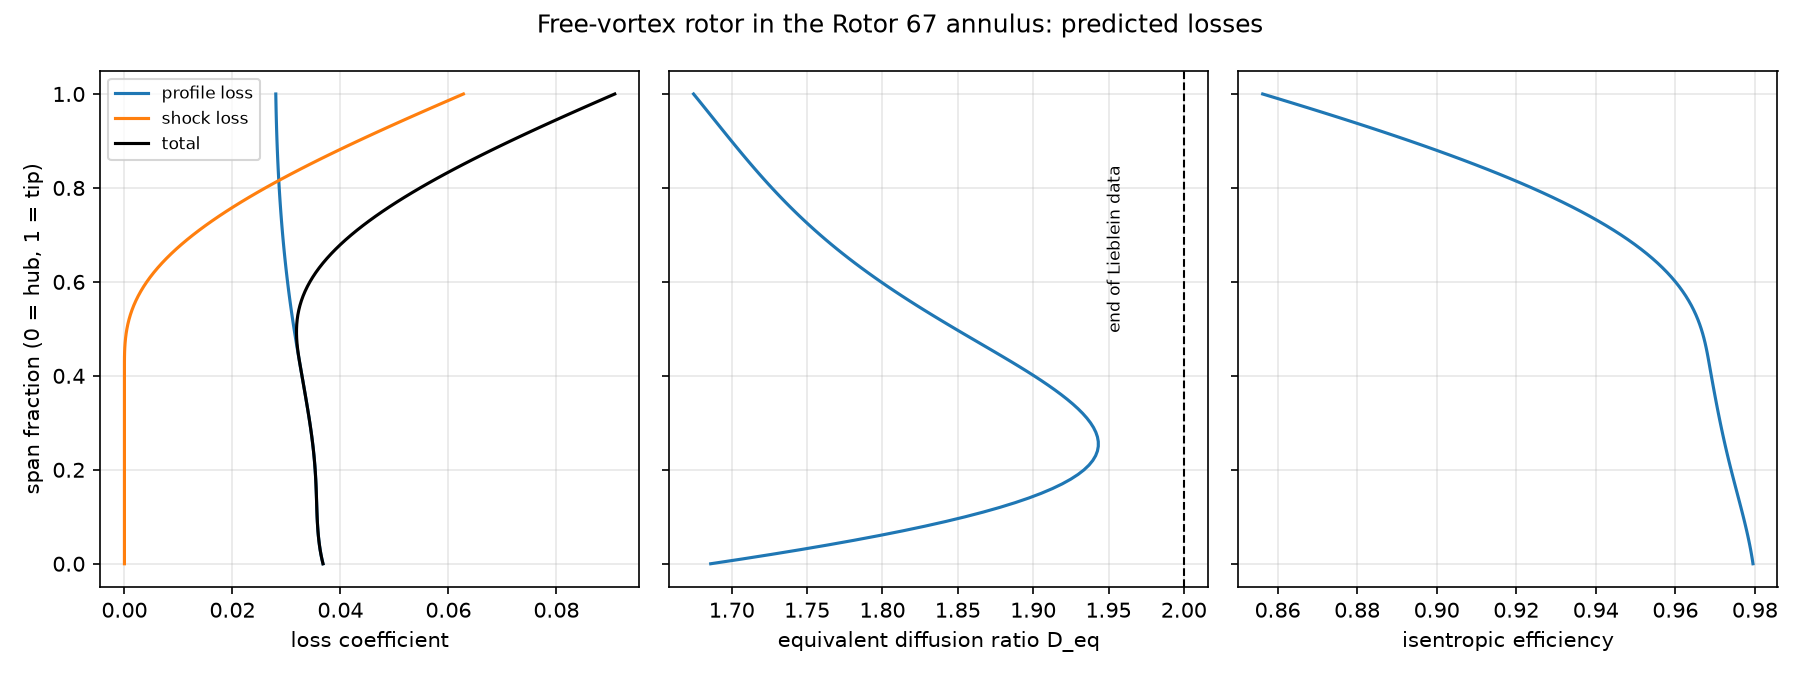
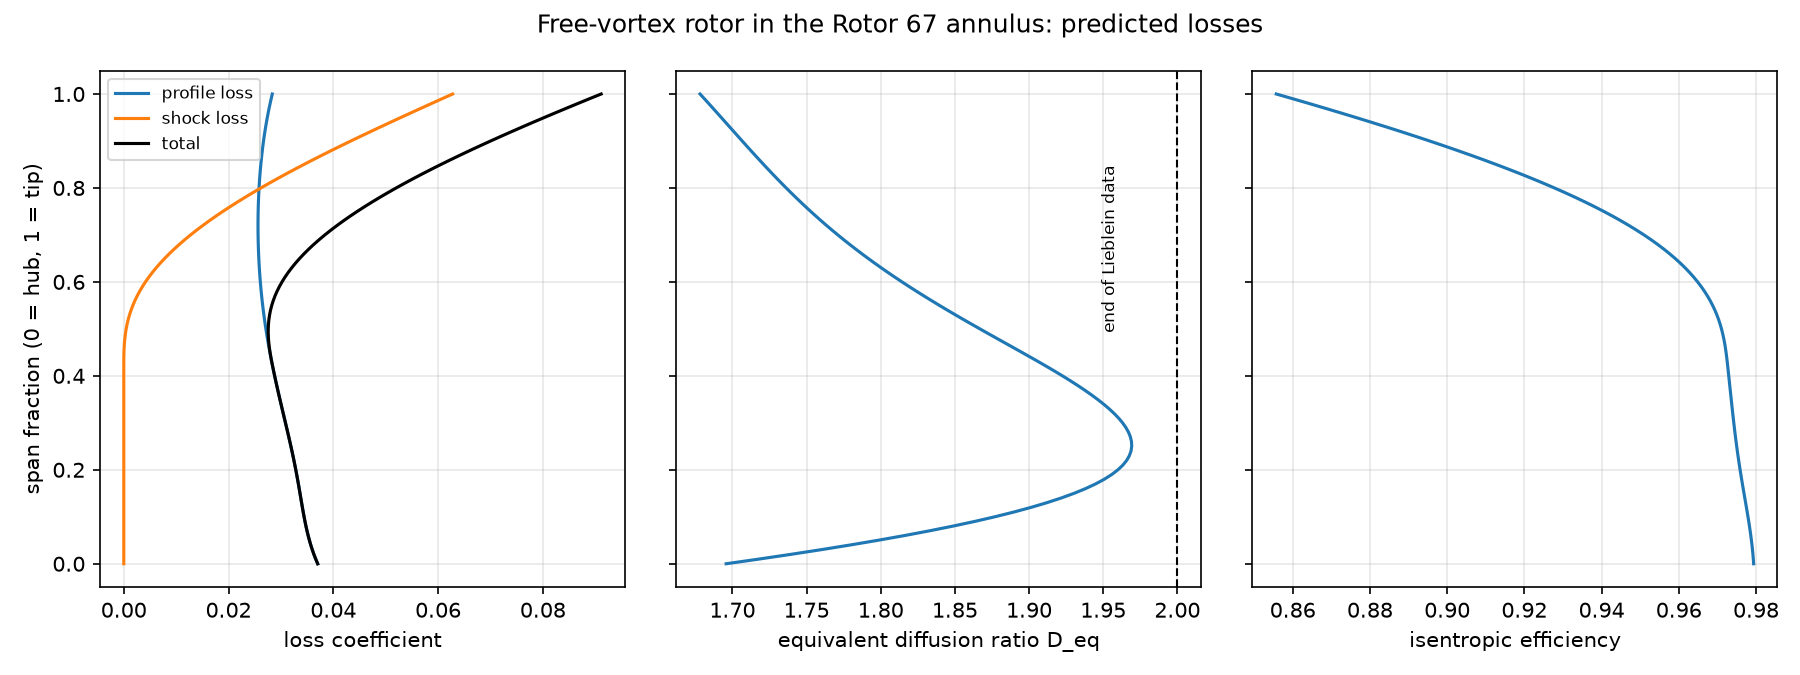
Add blade sections; Rotor 67 solidity from constant chord (aspect ratio check)

diff --git a/fan/blade_sections.py b/fan/blade_sections.py
@@ -1,0 +1,112 @@
+"""
+Blade sections: circular-arc camber line with a lens-shaped thickness.
+
+Each section is built in its own chord frame and then rotated by the
+stagger angle:
+
+  camber line   circular arc, direction angle phi from -theta/2 (leading
+                edge) to +theta/2 (trailing edge), radius R = c / (2 sin(theta/2))
+                    x = c/2 + R sin(phi),   y = R (cos(theta/2) - cos(phi))
+  thickness     t(s) = 4 t_max s (1 - s), s = x / c, laid off normal to
+                the camber line on both sides. For a thin section this is
+                the double-circular-arc (DCA) profile, a classic transonic
+                fan section. The edges are sharp; edge radii come later.
+
+Coordinates: X axial, Y tangential (direction of blade motion), metres,
+origin at mid-chord. Direction angles from axial, so the camber line
+leaves the leading edge at kappa1 = stagger - theta/2 and the trailing
+edge at kappa2 = stagger + theta/2, as in blade_angles.py.
+"""
+
+import math
+
+import numpy as np
+
+
+def chord_from_solidity(solidity, radius, n_blades: int):
+    """Chord [m] from solidity sigma = c / pitch, pitch = 2 pi r / Z."""
+    return solidity * 2.0 * np.pi * radius / n_blades
+
+
+def circular_arc_section(camber_deg: float, stagger_deg: float, chord: float,
+                         thickness_ratio: float, n_points: int = 101) -> dict:
+    """Camber line, upper and lower surface of one section.
+
+    Returns {"camber": (X, Y), "upper": (X, Y), "lower": (X, Y)}.
+    """
+    theta = math.radians(camber_deg)
+    gamma = math.radians(stagger_deg)
+
+    if abs(theta) < 1e-9:                       # flat plate
+        phi = np.zeros(n_points)
+        x = np.linspace(0.0, chord, n_points)
+        y = np.zeros(n_points)
+    else:
+        radius = chord / (2.0 * math.sin(0.5 * theta))
+        phi = np.linspace(-0.5 * theta, 0.5 * theta, n_points)
+        x = 0.5 * chord + radius * np.sin(phi)
+        y = radius * (math.cos(0.5 * theta) - np.cos(phi))
+
+    s = np.clip(x / chord, 0.0, 1.0)
+    half = 2.0 * thickness_ratio * chord * s * (1.0 - s)    # half thickness
+    nx, ny = -np.sin(phi), np.cos(phi)                      # unit normal
+
+    def to_blade_frame(xc, yc):
+        xc = xc - 0.5 * chord                                # origin at mid-chord
+        return (xc * math.cos(gamma) - yc * math.sin(gamma),
+                xc * math.sin(gamma) + yc * math.cos(gamma))
+
+    return {
+        "camber": to_blade_frame(x, y),
+        "upper": to_blade_frame(x + half * nx, y + half * ny),
+        "lower": to_blade_frame(x - half * nx, y - half * ny),
+    }
+
+
+if __name__ == "__main__":
+    import matplotlib.pyplot as plt
+
+    from fan.annulus import ROTOR67, Annulus
+    from fan.blade_angles import metal_angles
+    from fan.losses import analyze, rotor67_solidity
+    from fan.radial_equilibrium import design_for_pressure_ratio
+
+    N_BLADES = 22
+    inlet = ROTOR67["annulus_inlet"]
+    exit_ = Annulus(r_tip=0.485 / 2, r_hub=0.232 / 2)
+    rpm, mdot = ROTOR67["rpm"], ROTOR67["mass_flow"]
+    guess = design_for_pressure_ratio(inlet, exit_, rpm, mdot, 1.63, -1, 0.92)
+    c_theta_m = guess.c_theta2[0] * (exit_.r_mean / guess.r2[0]) ** -1
+    sol, *_ = analyze(inlet, exit_, rpm, mdot, c_theta_m, -1)
+
+    sigma = rotor67_solidity(sol.span)
+    _, _, camber, stagger, _ = metal_angles(sol.beta1, sol.beta2, sigma)
+    radius = 0.5 * (sol.r1 + sol.r2)
+    chord = chord_from_solidity(sigma, radius, N_BLADES)
+    t_max = 0.10 + (0.03 - 0.10) * sol.span      # assumed: 10 % at hub, 3 % at tip
+
+    picks = [0, 25, 50, 75, 100]
+    print(f"{'span':>5} {'r [mm]':>7} {'chord [mm]':>11} {'t_max [mm]':>11} "
+          f"{'camber':>7} {'stagger':>8}")
+    fig, axes = plt.subplots(1, len(picks), figsize=(15, 4.5))
+    for ax, i in zip(axes, picks):
+        print(f"{sol.span[i]:5.2f} {radius[i] * 1000:7.1f} {chord[i] * 1000:11.1f} "
+              f"{t_max[i] * chord[i] * 1000:11.2f} {camber[i]:7.1f} {stagger[i]:8.1f}")
+        sec = circular_arc_section(camber[i], stagger[i], chord[i], t_max[i])
+        for key, style in (("upper", "b-"), ("lower", "b-"), ("camber", "k--")):
+            xs, ys = sec[key]
+            ax.plot(xs * 1000, ys * 1000, style, lw=1 if key == "camber" else 1.5)
+        ax.set_title(f"span {sol.span[i]:.2f}\ncamber {camber[i]:.0f}°, "
+                     f"stagger {stagger[i]:.0f}°", fontsize=9)
+        ax.set_aspect("equal")
+        ax.set_xlabel("axial [mm]")
+        ax.grid(True, alpha=0.3)
+    axes[0].set_ylabel("tangential [mm] (blade motion +)")
+
+    span_len = (exit_.r_tip + inlet.r_tip) / 2 - (exit_.r_hub + inlet.r_hub) / 2
+    print(f"\nMean span {span_len * 1000:.0f} mm, span / mean chord = "
+          f"{span_len / chord.mean():.2f} (NASA aspect ratio 1.56, based on root axial chord)")
+    fig.suptitle("Rotor sections (free vortex, circular-arc camber, DCA-like thickness)")
+    fig.tight_layout()
+    fig.savefig("figures/blade_sections.png", dpi=150)
+    print("Saved figures/blade_sections.png")

diff --git a/tests/test_blade_sections.py b/tests/test_blade_sections.py
@@ -1,0 +1,44 @@
+"""Tests for the blade section geometry."""
+
+import math
+
+import numpy as np
+import pytest
+
+from fan.blade_sections import chord_from_solidity, circular_arc_section
+
+
+def test_chord_from_solidity():
+    assert chord_from_solidity(1.29, 0.25, 22) == pytest.approx(1.29 * 2 * math.pi * 0.25 / 22)
+
+
+def test_flat_plate_without_camber():
+    x, y = circular_arc_section(0.0, -30.0, 0.1, 0.05)["camber"]
+    slope = np.degrees(np.arctan2(np.diff(y), np.diff(x)))
+    assert slope == pytest.approx(-30.0)
+
+
+@pytest.mark.parametrize("camber, stagger", [(20.0, -40.0), (60.0, -10.0), (5.0, -65.0)])
+def test_camber_line_matches_metal_angles(camber, stagger):
+    x, y = circular_arc_section(camber, stagger, 0.1, 0.05, n_points=2001)["camber"]
+    k_le = math.degrees(math.atan2(y[1] - y[0], x[1] - x[0]))
+    k_te = math.degrees(math.atan2(y[-1] - y[-2], x[-1] - x[-2]))
+    assert k_le == pytest.approx(stagger - camber / 2, abs=0.05)
+    assert k_te == pytest.approx(stagger + camber / 2, abs=0.05)
+
+
+def test_chord_length():
+    x, y = circular_arc_section(40.0, -30.0, 0.1, 0.05)["camber"]
+    assert math.hypot(x[-1] - x[0], y[-1] - y[0]) == pytest.approx(0.1)
+
+
+def test_maximum_thickness():
+    sec = circular_arc_section(40.0, -30.0, 0.1, 0.05)
+    (xu, yu), (xl, yl) = sec["upper"], sec["lower"]
+    assert np.hypot(xu - xl, yu - yl).max() == pytest.approx(0.005, rel=1e-3)
+
+
+def test_section_is_centred_at_mid_chord():
+    x, y = circular_arc_section(40.0, -30.0, 0.1, 0.05)["camber"]
+    assert 0.5 * (x[0] + x[-1]) == pytest.approx(0.0, abs=1e-12)
+    assert 0.5 * (y[0] + y[-1]) == pytest.approx(0.0, abs=1e-12)

diff --git a/fan/losses.py b/fan/losses.py
@@ -88,10 +88,22 @@ def efficiency_from_loss(sol: SpanwiseSolution, omega: np.ndarray,
     return ((p02 / p01) ** (1.0 / _EXP) - 1.0) / (sol.t02 / t01 - 1.0)
 
 
+# Rotor 67 (NASA TP-2879): solidity 3.11 at the hub, 1.29 at the tip, 22 blades.
+# Chord = sigma * 2 pi r / Z is then almost the same at hub and tip (94 and 92 mm):
+# the blade has a nearly constant chord, so the solidity falls as 1/r.
+_R_HUB_MEAN = 0.5 * (0.193 + 0.232) / 2     # mean of inlet and exit hub radius [m]
+_R_TIP_MEAN = 0.5 * (0.514 + 0.485) / 2     # mean of inlet and exit tip radius [m]
+_Z = 22
+_C_HUB = 3.11 * 2.0 * np.pi * _R_HUB_MEAN / _Z
+_C_TIP = 1.29 * 2.0 * np.pi * _R_TIP_MEAN / _Z
+
+
 def rotor67_solidity(span: np.ndarray) -> np.ndarray:
-    """Rotor 67 solidity, 3.11 at the hub to 1.29 at the tip (NASA TP-2879),
-    assumed linear in span between them."""
-    return 3.11 + (1.29 - 3.11) * span
+    """Rotor 67 solidity: chord linear between the hub and tip values implied by
+    the published solidities (3.11 and 1.29), divided by the local pitch."""
+    r = _R_HUB_MEAN + (_R_TIP_MEAN - _R_HUB_MEAN) * span
+    chord = _C_HUB + (_C_TIP - _C_HUB) * span
+    return chord * _Z / (2.0 * np.pi * r)
 
 
 class HubStallError(RuntimeError):

diff --git a/tests/test_losses.py b/tests/test_losses.py
@@ -75,3 +75,11 @@ def test_constant_swirl_stalls_the_hub():
     guess = design_for_pressure_ratio(INLET, EXIT, RPM, MDOT, 1.63, 0, 0.92)
     with pytest.raises(HubStallError):
         analyze(INLET, EXIT, RPM, MDOT, guess.c_theta2[0], 0)
+
+
+def test_rotor67_solidity_matches_nasa_and_has_nearly_constant_chord():
+    span = np.linspace(0.0, 1.0, 11)
+    sigma = rotor67_solidity(span)
+    assert sigma[0] == pytest.approx(3.11)
+    assert sigma[-1] == pytest.approx(1.29)
+    assert np.all(np.diff(sigma) < 0)
